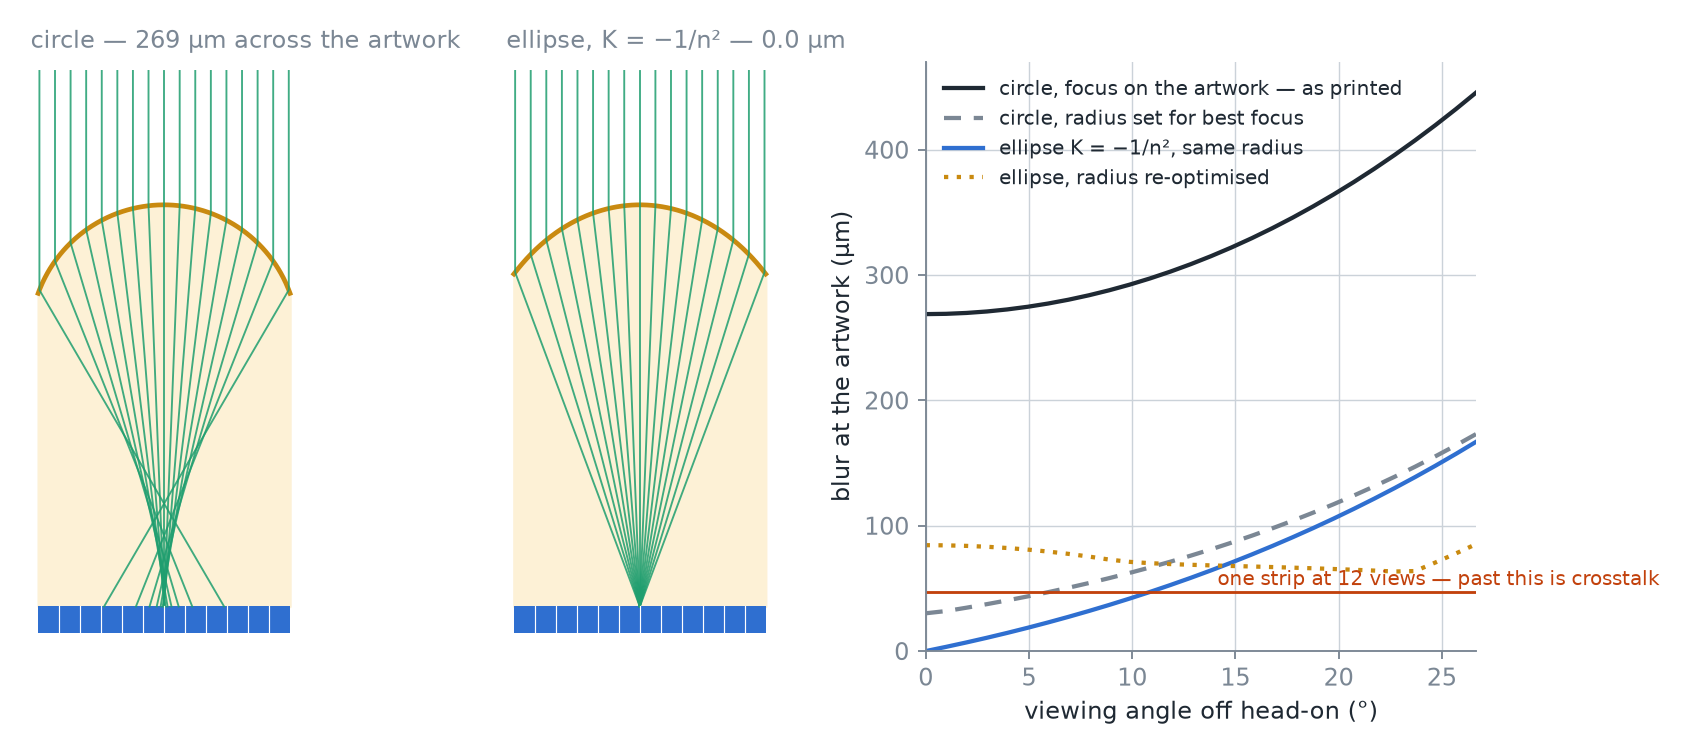
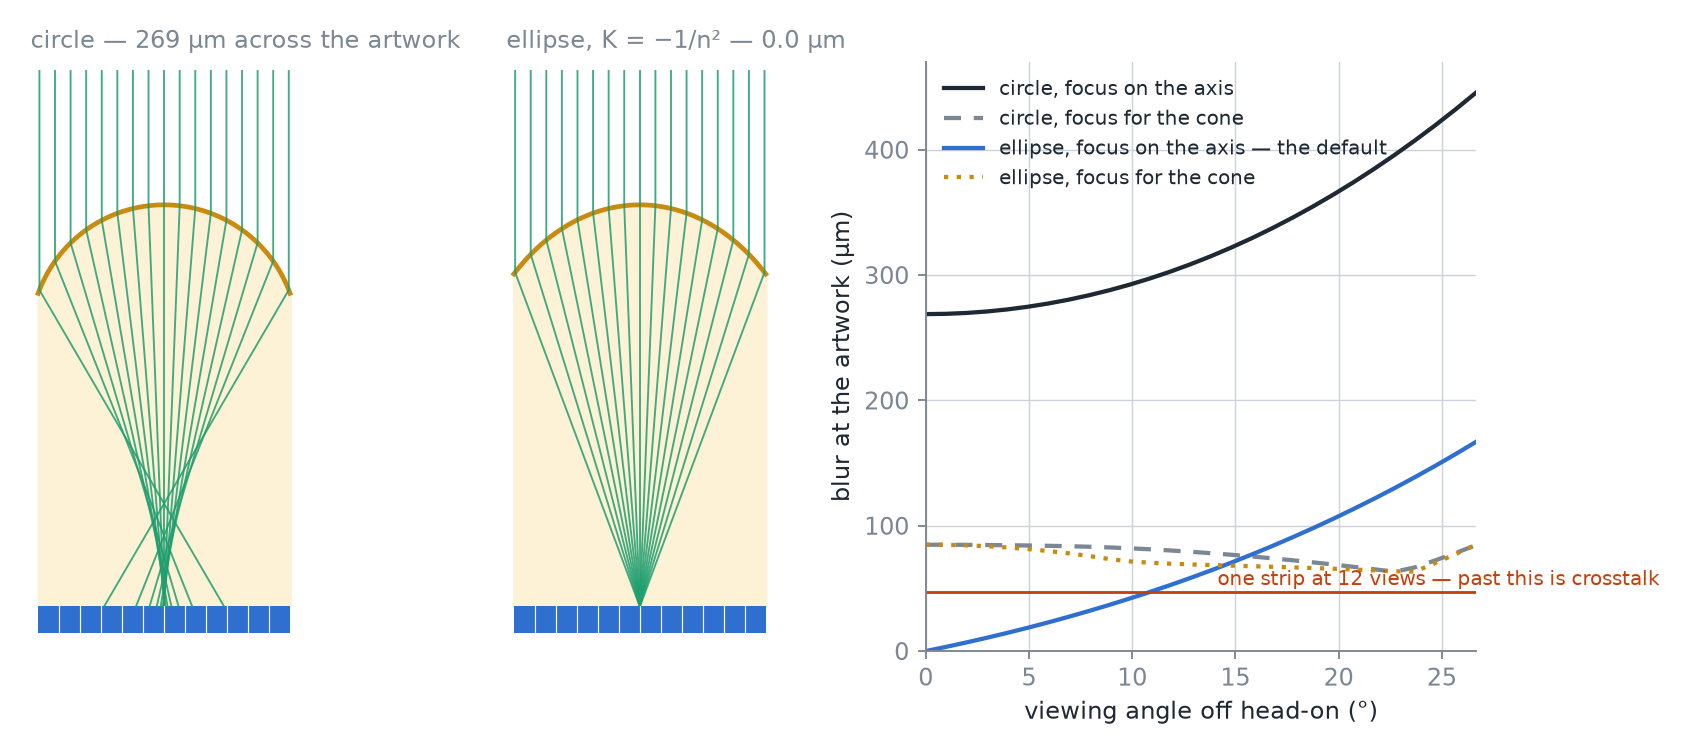
docs(lens): animate the even focus, and correct what it costs
The guide said solving the radius for best focus costs about 13% of the
viewing cone. It does not cost any: that figure came from computing the
cone out of the focal length, which the old solve had forced to equal the
stack height. The cone is set by the pitch and the height. The table now
has a height-floor column instead, which is a real difference between the
rows, and the cone section says which H it means and why the radius does
not enter into it.

A second sweep, one frame per degree like the first, for the ellipse with
its focus solved across the cone. It shows what the numbers cannot: the
caps are visibly shallower, and the bundle straddles a strip boundary at
nearly every angle, because 85 um is 1.8 strips of a twelve-view print.
An even focus makes every view equally slightly blended where the axial
one makes the middle of the cone perfect and the edges poor - and it
suits fewer views, since at six views a strip is 94 um and 85 fits.

figures.py grows the same trace and the same golden-section search as the
tool, so figure 17 computes its own radii instead of carrying numbers I
measured once, and animation.py takes --focus.

One finding is worth stating plainly, and the guide now does: once the
focus is solved for the cone, the shape stops mattering for blur - the
circle lands within a micron of the ellipse. What the ellipse still buys
there is the height floor, a quarter lower, which does not care how the
focus was chosen.

diff --git a/docs/figures.py b/docs/figures.py
@@ -87,11 +87,12 @@ class Lens:
         ri: float,
         ppi: float = 1440.0,
         profile: str = "ellipse",
+        focus: str = "axis",
     ):
         n = max(1.0001, ri)
         h = max(1e-6, height_mm)
         self.lpi, self.n, self.H, self.ppi = lpi, n, h, ppi
-        self.profile_name = profile
+        self.profile_name, self.focus_name = profile, focus
         self.pitch = 25.4 / lpi
         self.pitch_px = ppi / lpi
         half = self.pitch / 2
@@ -104,13 +105,74 @@ class Lens:
         wanted_r = h * (n - 1) / n
         self.min_height = n * reach * self.pitch / (2 * (n - 1))
         self.feasible = wanted_r >= reach * half
-        self.radius = wanted_r if self.feasible else reach * half
+        self.axial_radius = wanted_r if self.feasible else reach * half
+        self.radius = self.axial_radius
+        # The ray through the lens axis meets the surface square on, so where it
+        # lands — and so where the print repeats — is set by the pitch and the
+        # stack height, not by the radius. Same for either focus below.
+        sin_in = half / math.hypot(half, h)
+        self.view_angle = 2 * math.degrees(math.asin(min(1.0, n * sin_in)))
+        if focus == "cone" and self.feasible:
+            self.radius = self._best_radius()
         self.sag = float(conic_sag(half, self.radius, self.K))
         self.focus = n * self.radius / (n - 1)
         self.base = max(0.0, h - self.sag)
         self.total = self.base + self.sag
-        sin_in = half / math.hypot(half, self.focus)
-        self.view_angle = 2 * math.degrees(math.asin(min(1.0, n * sin_in)))
+
+    # --- the trace, which is what "focus for the cone" is solved against ----
+
+    def landings(self, theta_deg=0.0, rays=41, radius=None):
+        """Where a parallel bundle from `theta_deg` lands on the artwork, mm."""
+        R = self.radius if radius is None else radius
+        th = math.radians(theta_deg)
+        d = (-math.sin(th), -math.cos(th))
+        half = self.pitch / 2
+        out = []
+        for off in np.linspace(-half * 0.99, half * 0.99, rays):
+            y = self.H - float(conic_sag(abs(off), R, self.K))
+            disc = max(1e-12, 1 - (1 + self.K) * off * off / (R * R))
+            slope = off / (R * math.sqrt(disc))
+            nl = math.hypot(slope, 1.0)
+            normal = (slope / nl, 1.0 / nl)
+            eta = 1.0 / self.n
+            cos_i = -(d[0] * normal[0] + d[1] * normal[1])
+            k = 1 - eta * eta * (1 - cos_i * cos_i)
+            if k < 0:
+                continue
+            f = eta * cos_i - math.sqrt(k)
+            ins = (eta * d[0] + f * normal[0], eta * d[1] + f * normal[1])
+            if ins[1] >= 0:
+                continue
+            out.append(off + (y / -ins[1]) * ins[0])
+        return out
+
+    def spot_mm(self, theta_deg=0.0, rays=41, radius=None):
+        """How wide that bundle lands — the blur one view is smeared over."""
+        lands = self.landings(theta_deg, rays, radius)
+        return (max(lands) - min(lands)) if lands else 0.0
+
+    def worst_spot_mm(self, rays=41, radius=None):
+        half = self.view_angle / 2
+        return max(self.spot_mm(f * half, rays, radius) for f in (0, 0.25, 0.5, 0.75, 1))
+
+    def _best_radius(self):
+        """Golden-section for the radius whose worst blur across the cone is least."""
+        phi = (math.sqrt(5) - 1) / 2
+        lo, hi = self.axial_radius, self.axial_radius * 1.6
+        c, dd = hi - phi * (hi - lo), lo + phi * (hi - lo)
+        fc, fd = self.worst_spot_mm(25, c), self.worst_spot_mm(25, dd)
+        for _ in range(24):
+            if hi - lo <= self.axial_radius * 1e-4:
+                break
+            if fc < fd:
+                hi, dd, fd = dd, c, fc
+                c = hi - phi * (hi - lo)
+                fc = self.worst_spot_mm(25, c)
+            else:
+                lo, c, fc = c, dd, fd
+                dd = lo + phi * (hi - lo)
+                fd = self.worst_spot_mm(25, dd)
+        return (lo + hi) / 2
 
     def surface(self, d):
         """Height of the surface above the *artwork*, at offset d from the axis."""
@@ -1182,9 +1244,10 @@ def fig_aberration():
     L = DEFAULT
     half = L.pitch / 2
     K_ELL = -1 / L.n**2
-    # The vertex radius whose *best* focus, rather than whose paraxial focus,
-    # falls on the artwork — found by search, in the sweep below.
-    R_BEST = 0.3470
+    # The radii whose *worst blur across the cone*, rather than whose paraxial
+    # focus, is what they were solved for — the same search the tool runs.
+    R_BEST = Lens(45, 0.9, 1.5, profile="circle", focus="cone").radius
+    R_BEST_ELL = Lens(45, 0.9, 1.5, focus="cone").radius
     fine = np.linspace(-half * 0.99, half * 0.99, 401)
     drawn = np.linspace(-half * 0.99, half * 0.99, 17)
 
@@ -1218,10 +1281,10 @@ def fig_aberration():
     bx = fig.add_subplot(gs[0, 2])
     angles = np.linspace(0, L.view_angle / 2, 28)
     designs = (
-        ("circle, focus on the artwork — as printed", dict(R=L.radius, K=0.0), INK, "-"),
-        ("circle, radius set for best focus", dict(R=R_BEST, K=0.0), SUB, (0, (4, 3))),
-        ("ellipse K = −1/n², same radius", dict(R=L.radius, K=K_ELL), ART, "-"),
-        ("ellipse, radius re-optimised", dict(R=0.3460, K=K_ELL), GLOSS, (0, (1, 2))),
+        ("circle, focus on the axis", dict(R=L.radius, K=0.0), INK, "-"),
+        ("circle, focus for the cone", dict(R=R_BEST, K=0.0), SUB, (0, (4, 3))),
+        ("ellipse, focus on the axis — the default", dict(R=L.radius, K=K_ELL), ART, "-"),
+        ("ellipse, focus for the cone", dict(R=R_BEST_ELL, K=K_ELL), GLOSS, (0, (1, 2))),
     )
     for label, kw, col, ls in designs:
         bx.plot(
@@ -1230,8 +1293,7 @@ def fig_aberration():
             color=col, lw=1.8, ls=ls, label=label,
         )
     bx.axhline(strip, color=WARN, lw=1.2)
-    bx.text(L.view_angle / 2 * 0.53, strip * 1.12, "one strip at 12 views — past this is crosstalk",
-            fontsize=8.6, color=WARN)
+    bx.text(0.6, strip * 1.16, "one strip at 12 views — past this is crosstalk", fontsize=8.6, color=WARN)
     bx.set_xlabel("viewing angle off head-on (°)")
     bx.set_ylabel("blur at the artwork (µm)")
     bx.set_xlim(0, L.view_angle / 2)

diff --git a/docs/animation.py b/docs/animation.py
@@ -58,7 +58,7 @@ import numpy as np
 from matplotlib.colors import LinearSegmentedColormap
 from matplotlib.patches import Circle, Rectangle, Wedge
 
-from figures import CIRCLE, DEFAULT, FAINT, GLOSS, GLOSS_FILL, INK, RAY, SUB, WARN, clean, conic_sag
+from figures import DEFAULT, FAINT, GLOSS, GLOSS_FILL, INK, Lens, RAY, SUB, WARN, clean, conic_sag
 
 OUT = os.path.join(os.path.dirname(os.path.abspath(__file__)), "images")
 
@@ -324,8 +324,15 @@ def main():
         "--surface", choices=("ellipse", "circle"), default="ellipse",
         help="which lens to trace: the ellipse the tool prints, or the circle it used to",
     )
+    ap.add_argument(
+        "--focus", choices=("axis", "cone"), default="axis",
+        help="where the radius puts the focus: on the axis (default), or evenest across the cone",
+    )
     args = ap.parse_args()
-    lens = CIRCLE if args.surface == "circle" else DEFAULT
+    # The same solve the tool runs, for whichever surface and focus is asked
+    # for — DEFAULT is already ellipse-on-axis, but say it in full so the
+    # frames are never quietly something else.
+    lens = Lens(45, 0.9, 1.5, profile=args.surface, focus=args.focus)
 
     os.makedirs(args.out, exist_ok=True)
     angles = np.arange(-args.span, args.span + 1e-9, args.step)

diff --git a/docs/printed-lenses.md b/docs/printed-lenses.md
@@ -215,13 +215,22 @@ focuses at the wrong depth is blurry, not ruined, and seeing it is more useful t
 ## How wide the view is
 
 The cone you can move through before the image stops flipping is set by the marginal ray: the one
-from the focus out through the edge of the lens, refracted back into air.
+from the artwork out through the edge of the lens, refracted back into air.
 
 ![The viewing cone](images/06-viewing-cone.png)
 
 ```
 sin(θ/2) = n · sin( arctan( (p/2) / H ) )
 ```
+
+Note which `H` that is: the **stack height**, the apex-to-artwork distance — not the focal length.
+The two are equal whenever the lens is solved to focus on the artwork, which is why the distinction
+rarely comes up, but they are not the same thing and the cone follows the stack. The ray through the
+lenticule's own axis meets the surface square on, so it refracts as if through a flat plane and lands
+`H·tan(asin(sinθ/n))` from the axis _whatever the radius is_; the cone is where that walks off the
+lenticule and the print starts repeating. So a lens whose radius has been chosen for something other
+than the axial focus — [as one option below does](#the-blur-the-lens-itself-adds) — has exactly the
+same cone as one that hasn't.
 
 Both this and the feasibility floor depend on the pitch and the height **only through their ratio**.
 Halve both and nothing changes — same lens shape, same margin, same cone. That has two consequences
@@ -284,12 +293,15 @@ the raster could carry.
 
 Four things reduce it, and they are not equally good:
 
-| Surface                                            | Blur head-on        | Worst across the cone | What it costs    |
-| -------------------------------------------------- | ------------------- | --------------------- | ---------------- |
-| circle, focus on the artwork _(the obvious shape)_ | 269 µm · 5.7 strips | 446 µm · 9.5 strips   | —                |
-| circle, radius set for **best focus**              | 30 µm · 0.6         | 174 µm · 3.7          | ~13% of the cone |
-| **ellipse**, `K = −1/n²` _(what the tool prints)_  | **0 µm**            | 167 µm · 3.6          | nothing          |
-| ellipse, radius re-optimised over the cone         | 85 µm · 1.8         | **86 µm · 1.8**       | ~13% of the cone |
+| Surface and focus                                       | Blur head-on        | Worst across the cone | Height floor |
+| ------------------------------------------------------- | ------------------- | --------------------- | ------------ |
+| circle, focus on the axis _(the obvious lens)_          | 269 µm · 5.7 strips | 446 µm · 9.5 strips   | 0.847 mm     |
+| circle, focus for the cone                              | 85 µm · 1.8         | 85 µm · 1.8           | 0.847 mm     |
+| **ellipse**, focus on the axis _(what the tool prints)_ | **0 µm**            | 167 µm · 3.6          | **0.631 mm** |
+| ellipse, focus for the cone                             | 85 µm · 1.8         | **85 µm · 1.8**       | **0.631 mm** |
+
+None of the four costs any viewing cone: the cone is set by the pitch and the stack height, and the
+radius has nothing to do with it — see [how wide the view is](#how-wide-the-view-is).
 
 **Change the shape.** An ellipse, not a circle, is the exact answer for the on-axis point: for one
 refracting surface bringing collimated light to a focus inside a medium of index `n`, the conic that
@@ -307,13 +319,29 @@ made. Here **the profile is a height map** — an aspheric costs exactly as many
 the tool prints one, and `Lens surface` on the print nodes is how you go back to a circle. It also
 lowers the height floor by a quarter, which is the [second thing it buys](#when-it-cant-work).
 
-**Move the focus.** The one worth knowing if you are stuck with a circle: put the artwork at the
-circle of least
-confusion instead of at the paraxial focus. For this lenticule the tightest plane is 180 µm above the
-paraxial focus, so solving the radius from `best focus = H` rather than `paraxial focus = H` — R
-0.347 mm instead of 0.300 — turns 269 µm into **30 µm**, a ninefold improvement for a different
-number in the same formula. It is not free: the lens is weaker, so by the marginal-ray measure this
-document uses the cone narrows from 53.3° to 46.2°.
+**Move the focus.** The second lever, and the second setting: `Focus for` on the print nodes. Rather
+than putting the vertex focus on the artwork, solve the radius so that the *worst* blur anywhere in
+the cone is as small as it can be. Spherical aberration lands the outer rays short, so a longer
+radius — 0.346 mm rather than 0.300 — brings the whole bundle together at the artwork instead: the
+circle of least confusion, put where the picture is. The tool searches for it, over the same trace
+that produced the numbers above.
+
+It flattens the curve completely. The ellipse's 0 µm head-on and 167 at the rim become **85 µm
+everywhere**, and the whole cone is then equally good rather than a sweet spot with edges. Watch the
+same sweep with it:
+
+![The view sweep, focused for the whole cone](images/18-sweep-even-focus.gif)
+
+Two things are visible there that the numbers do not say. The caps are shallower — that is the longer
+radius. And the bundle straddles a strip boundary at nearly every angle, because 85 µm is 1.8 strips
+of a twelve-view print: an even focus makes every view equally slightly blended, where the axial one
+makes the middle of the cone perfect and the edges poor. Which you want depends on the print. It also
+means the even focus suits **fewer views**: at six views a strip is 94 µm and 85 fits inside it, so
+the same lens that cannot cleanly resolve twelve resolves six across the entire cone.
+
+And an honest note the table makes plain: once the focus is solved for the cone, **the shape stops
+mattering for blur** — the circle lands within a micron of the ellipse. What the ellipse still buys
+there is the height floor, which is a quarter lower and does not care how the focus was chosen.
 
 **Stop the aperture down.** Blur falls fast with aperture — 80% of the pitch gives 88 µm, 60% gives
 30 µm — which is the standard advice in the display literature: increasing the radius of curvature or
@@ -1201,6 +1229,7 @@ apart, that test fails.
 | Clean at one edge, smeared at the other         | Pitch mismatch (laminated lens, or RIP scaling)                                                                | Run the LPI calibration                                                                                         |
 | Two views visible at once                       | Focus too long, or the ink slumped                                                                             | More height, or cure harder                                                                                     |
 | Views blended at every angle, worst off-axis    | A circular surface: it cannot focus its own aperture, and spreads a view over ~6 strips                        | Set Lens surface to Ellipse — same height, same cone, no cost                                                    |
+| Sharp head-on, softening towards the edges      | Coma — the residual an ellipse leaves, which grows with the angle                                              | Focus for: the whole cone; or fewer views, which widens the strip                                               |
 | Depth inverted, motion feels wrong              | Pseudoscopic — views not mirrored                                                                              | Mirror both view indices                                                                                        |
 | Stair-stepping on the lens surface              | 8-bit relief, or too few pixels per lens                                                                       | Emit 16-bit; raise PPI or lower LPI to ≥ 8 px per lens                                                          |
 | A view missing from some lenses                 | Artwork raster too small, a tile fell between pixels                                                           | Raise samples per tile to 2 or more                                                                             |
